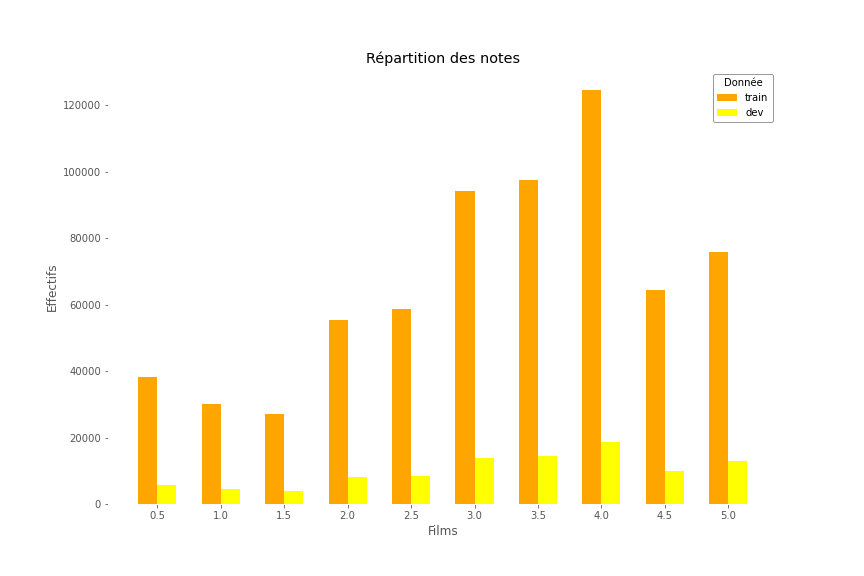
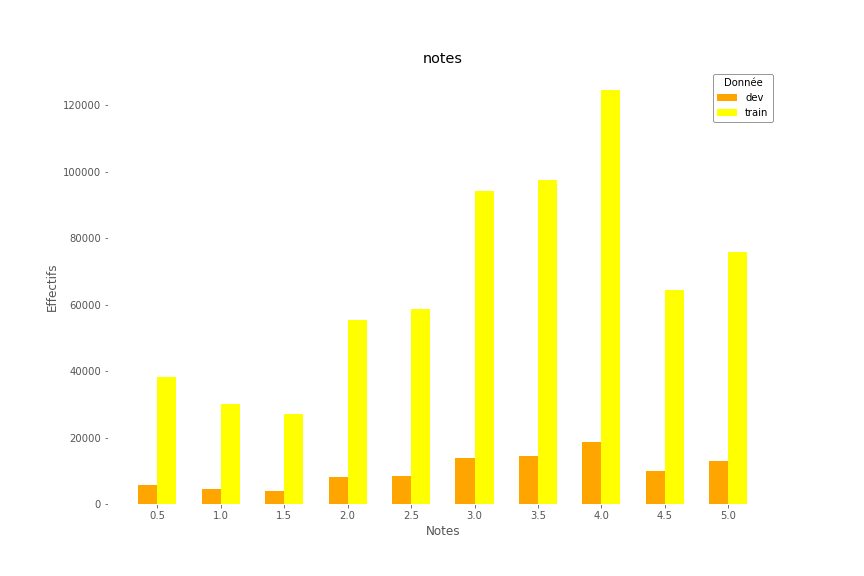
Ajout graphique fréequence bien et film + modif erreur titre graphics.py

diff --git a/tools/stat.py b/tools/stat.py
@@ -15,14 +15,14 @@ sys.path.append(directory)
 import config
 
 path = config.paths['url']
-
+"""
 folder_to_load = sys.argv[1]
 folder_to_load2 = sys.argv[2]
-
 """
+
 folder_to_load = "dev"
 folder_to_load2 = "train"
-"""
+
 
 reviews_grades = np.load(f"{path}/processed_data/{folder_to_load}/reviews_grades.npy", allow_pickle=True).item()
 reviews_users = np.load(f"{path}/processed_data/{folder_to_load}/reviews_users.npy", allow_pickle=True).item()
@@ -30,6 +30,7 @@ movie_grades = np.load(f"{path}/processed_data/{folder_to_load}/movie_grades.npy
 comments = np.load(f"{path}/processed_data/{folder_to_load}/comments_clean.npy", allow_pickle=True).item()
 
 reviews_grades2 = np.load(f"{path}/processed_data/{folder_to_load2}/reviews_grades.npy", allow_pickle=True).item()
+comments2 = np.load(f"{path}/processed_data/{folder_to_load2}/comments_clean.npy", allow_pickle=True).item()
 
 def get_mean_grades():
     mean_grade = 0
@@ -234,7 +235,8 @@ if __name__ == "__main__":
     
     print("Most frequent words and their mean grade: ")
     mean_grade_by_words = most_frequent_words_and_their_mean_grade(reviews_grades, comments)
-
+    mean_grade_by_words2 = most_frequent_words_and_their_mean_grade(reviews_grades2, comments2)
+    
     i = 0
     for key in mean_grade_by_words:
         if i == 10:
@@ -246,12 +248,15 @@ if __name__ == "__main__":
     # Garder seulement les 10 mots les plus fréquents avec leur fréquence
     
     freq_grade_words = {key: value[2] for key, value in list(mean_grade_by_words.items())[0:10]}
+    freq_grade_words2 = {key: value[2] for key, value in list(mean_grade_by_words2.items())[0:10]}
 
     list_notes = [0.5,1,1.5,2,2.5,3,3.5,4,4.5,5]
     notes_by_words, freq_words = stats_frequent_words(reviews_grades, comments, list_notes)
+    notes_by_words2, freq_words2 = stats_frequent_words(reviews_grades2, comments2, list_notes)
     
     print("Most frequent words for each note and their mean grade: \n ")
     for note in list_notes:
+        
         i = 0
         print("note = ", note, " - Fréquence = ", distrib_notes[note])
         for key in freq_words[note].keys():
@@ -262,11 +267,25 @@ if __name__ == "__main__":
             i+= 1
         print('\n')
     
+    # Voir la fréquence des mots "film" et "bien" pour chaque note
+    freq_film_bien_by_note = {}
+    freq_film_bien_by_note2 = {}
+    freq_film_bien_by_note["film"] = {}
+    freq_film_bien_by_note["bien"] = {}
+    freq_film_bien_by_note2["film"] = {}
+    freq_film_bien_by_note2["bien"] = {}
+    
+    for note in list_notes:
+        freq_film_bien_by_note["film"][note] = freq_words[note]["film"]/distrib_notes[note]
+        freq_film_bien_by_note["bien"][note] = freq_words[note]["bien"]/distrib_notes[note]
+        freq_film_bien_by_note2["film"][note] = freq_words2[note]["film"]/distrib_notes[note]
+        freq_film_bien_by_note2["bien"][note] = freq_words2[note]["bien"]/distrib_notes[note]
+        
     ######## Generating graphs ########
     graphics.graph_repartition(distrib_notes, "Répartition des notes (" + folder_to_load + ")", "Notes")
 
     # Répartition des notes, comparaison entre les données de dev et d'apprentissage
-    #graphics.graph_note_repartition(distrib_notes, distrib_notes2, "notes", folder_to_load, folder_to_load2) # ajouter les arguments folder_to_load et folder_to_load2 dans la fonction
+    graphics.graph_note_repartition(distrib_notes, distrib_notes2, "notes", folder_to_load, folder_to_load2, "Notes") # ajouter les arguments folder_to_load et folder_to_load2 dans la fonction
     
     #k = list(movie_grades.keys())[0]
     #k2 = list(grades_by_user.keys())[0]
@@ -280,7 +299,11 @@ if __name__ == "__main__":
     graphics.graph_boxplot(distrib_notes_by_user, 10, "utilisateurs (" + folder_to_load + ")")
     
     graphics.graph_repartition(freq_grade_words, "Fréquence des mots les plus fréquents (" + folder_to_load + ")", "Mots")
-    
+    graphics.graph_note_repartition(freq_film_bien_by_note["film"], freq_film_bien_by_note2["film"], 'Fréquence moyenne du mot film selon la note' , folder_to_load, folder_to_load2, "Mots") # ajouter les arguments folder_to_load et folder_to_load2 dans la fonction
+    graphics.graph_note_repartition(freq_film_bien_by_note["bien"], freq_film_bien_by_note2["bien"], 'Fréquence moyenne du mot bien selon la note' , folder_to_load, folder_to_load2, "Mots") # ajouter les arguments folder_to_load et folder_to_load2 dans la fonction
+    graphics.graph_note_repartition(freq_grade_words, freq_grade_words2, "Top 10 des mots les plus fréquents", folder_to_load, folder_to_load2, "Mots") # ajouter les arguments folder_to_load et folder_to_load2 dans la fonction
+
+
     graphics.word_cloud(mean_grade_by_words, "Wordcloud of comments (" + folder_to_load + ")")
 
     print("finished")

diff --git a/tools/graphics.py b/tools/graphics.py
@@ -35,7 +35,7 @@ def graph_repartition(distrib_notes, titre, xLabel):
     plt.clf()
 
 # Comparer la répartition des notes pour les données d'apprentissage
-def graph_note_repartition(distrib_notes_app, distrib_notes_dev, titre, name1, name2):
+def graph_note_repartition(distrib_notes_app, distrib_notes_dev, titre, name1, name2, xLabel):
 
     barWidth = 0.3
     
@@ -54,9 +54,9 @@ def graph_note_repartition(distrib_notes_app, distrib_notes_dev, titre, name1, n
 
     plt.xticks([r + barWidth / 2 for r in range(len(films_app))], list(distrib_notes_app.keys()))
 
-    plt.title("Répartition des notes")
+    plt.title(titre)
     plt.gca().set_facecolor('white')
-    plt.xlabel("Films")
+    plt.xlabel(xLabel)
     plt.ylabel("Effectifs")
     
     plt.legend(title = 'Donnée',  facecolor='white', edgecolor='black')
@@ -64,7 +64,7 @@ def graph_note_repartition(distrib_notes_app, distrib_notes_dev, titre, name1, n
     #plt.show()
     plt.savefig(f"{path}/graphs/{titre}.png")
 
-    plt.clf()
+    #plt.clf()
         
 # Répartition des notes par films (n: nombre de film qu'on veut mettre dans le graphique)
 # titre: préciser si c'est par films ou par utilisateur et si c'est sur les données d'apprentissage ou de validation
